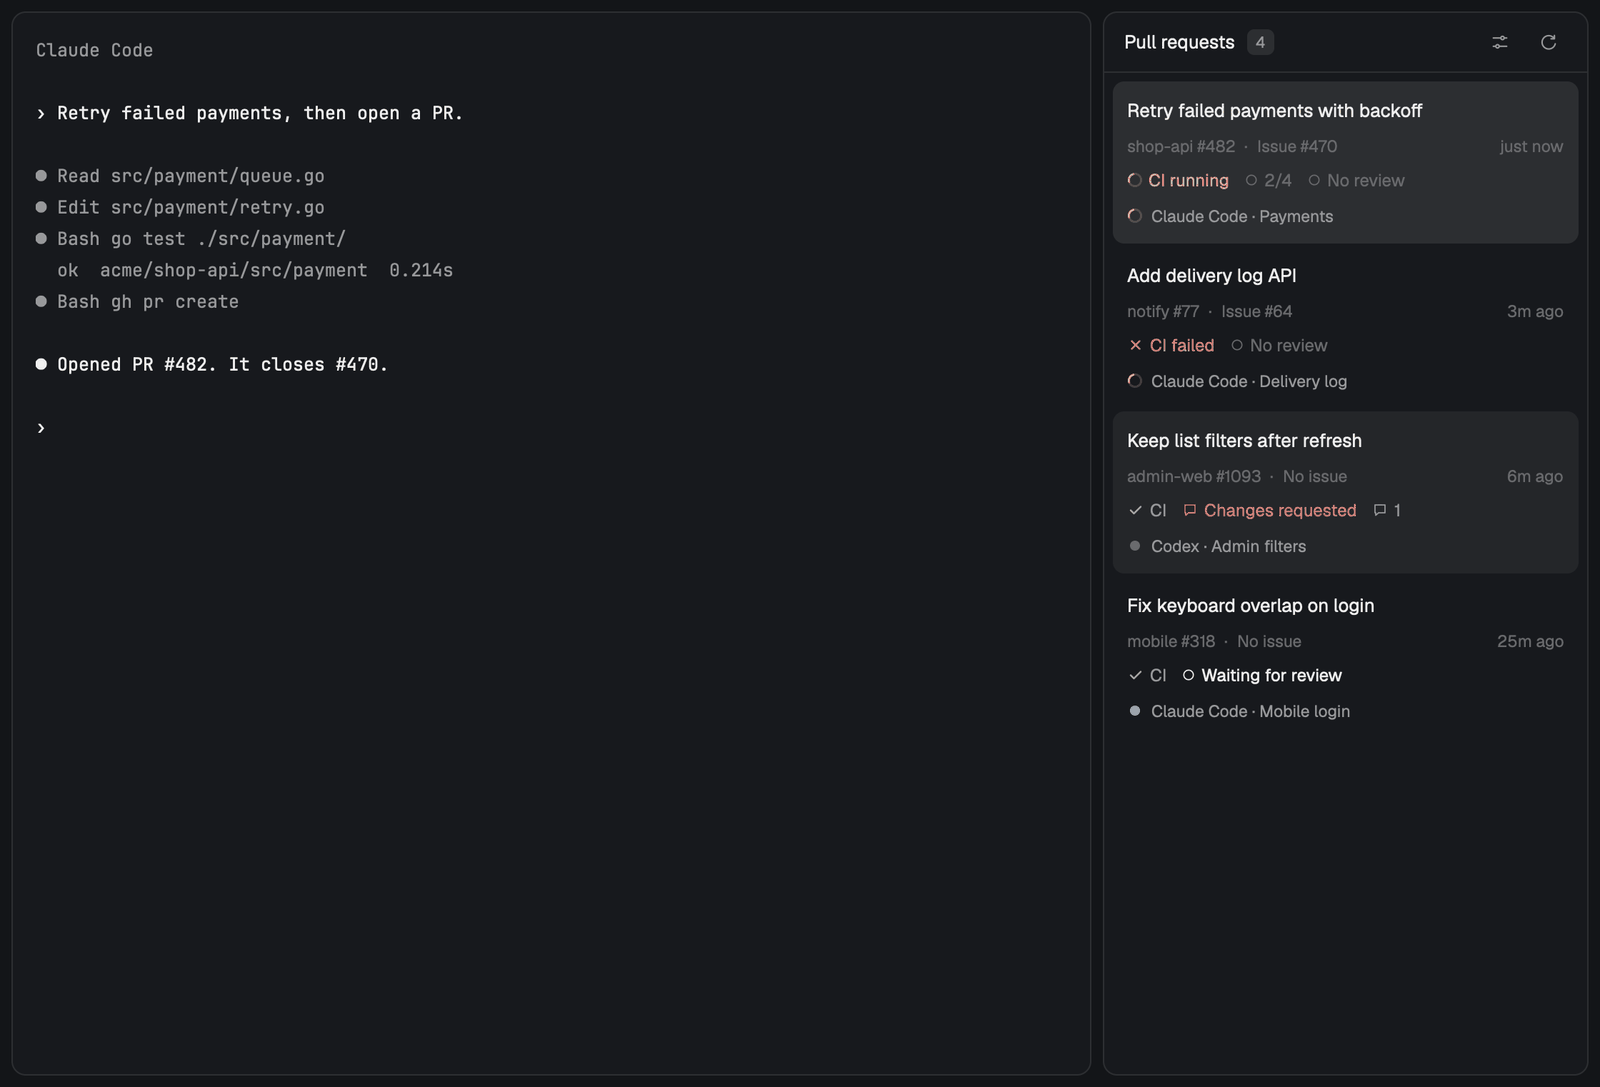
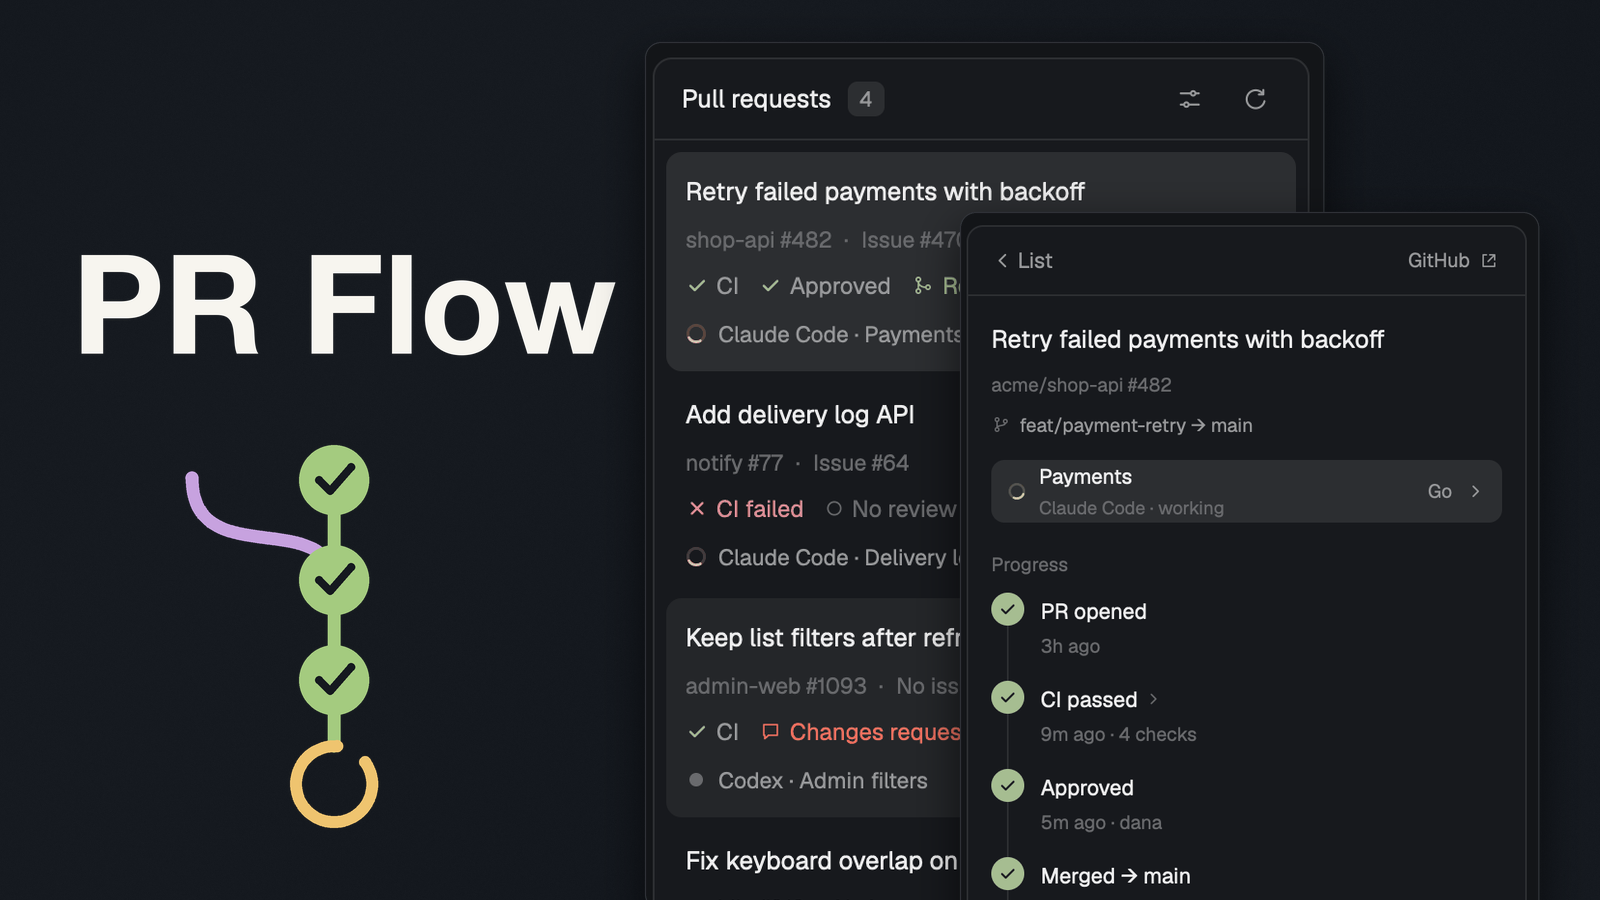
Lead the READMEs and preview with a thumbnail
The first image on a page is what previews usually pick up, and the demo GIF
is a poor still. The thumbnail shows real panel screens with sample data.

diff --git a/README.ko.md b/README.ko.md
@@ -2,6 +2,8 @@
 
 [English](README.md) | **한국어**
 
+![PR Flow: Herdr 옆 패널의 PR 목록과 PR 타임라인](docs/thumbnail.png)
+
 에이전트가 올린 PR이 어디까지 갔는지 보여주는 [Herdr 앱](https://herdr.dev)용 옆 패널입니다. CI부터 머지 후 실행되는 워크플로까지 볼 수 있습니다.
 
 ![에이전트 옆의 PR Flow: PR이 CI를 거쳐 머지되고, 배포 워크플로가 단계별로 진행되며, 연결된 이슈와 diff가 열립니다](docs/demo-ko.gif)

diff --git a/README.md b/README.md
@@ -2,6 +2,8 @@
 
 **English** | [한국어](README.ko.md)
 
+![PR Flow: a PR list and a PR timeline in the Herdr side panel](docs/thumbnail.png)
+
 A side panel for the [Herdr app](https://herdr.dev) that shows every pull request your agents opened and where each one is, from CI through to the workflows that run after a merge.
 
 ![PR Flow beside an agent: a PR goes from CI to merged, its deploy workflow runs step by step, then a linked issue and a diff open](docs/demo.gif)
